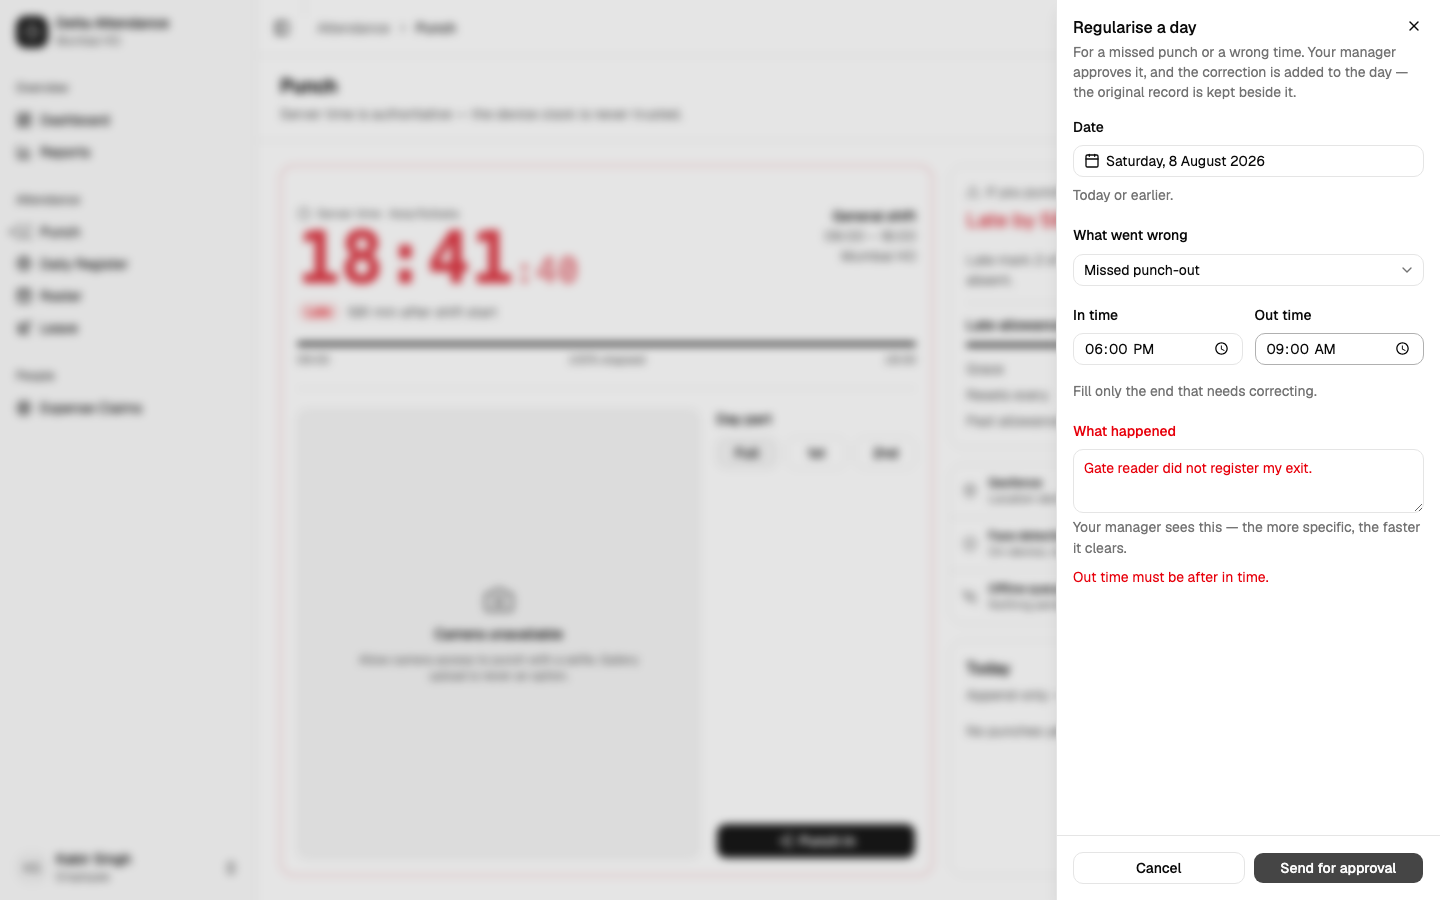
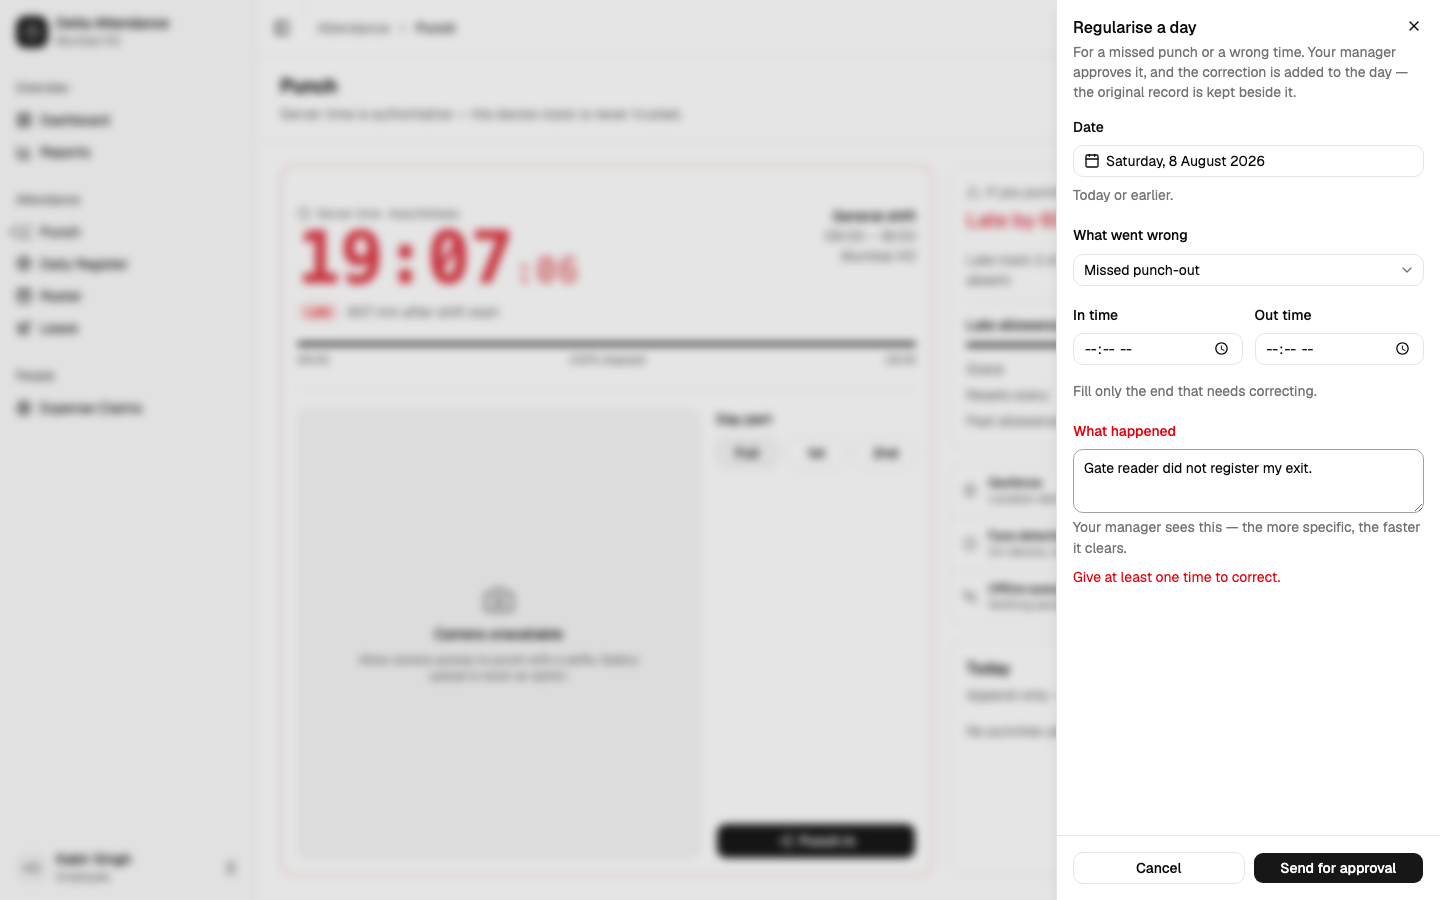
Escalated approvals persist, and night-shift corrections stop landing before the shift began

diff --git a/packages/shared/src/regularisation.test.ts b/packages/shared/src/regularisation.test.ts
@@ -2,6 +2,8 @@ import { describe, expect, it } from "vitest"
 
 import {
   clockToMinutes,
+  offsetForShift,
+  regularisationOrderingError,
   regularisationPunches,
   regularisationRequestSchema,
   regularisationSubject,
@@ -37,13 +39,12 @@ describe("regularisationRequestSchema", () => {
     expect(result.success).toBe(false)
   })
 
-  it("refuses an out time before the in time", () => {
-    const result = regularisationRequestSchema.safeParse({
-      ...base,
-      inTime: "18:00",
-      outTime: "09:00",
-    })
-    expect(result.success).toBe(false)
+  it("leaves ordering to the route — the schema cannot know the shift", () => {
+    // 06:00 legitimately follows 22:00 on a night shift, so a string compare
+    // here would refuse every night-shift correction outright.
+    expect(
+      regularisationRequestSchema.safeParse({ ...base, inTime: "22:00", outTime: "06:00" }).success
+    ).toBe(true)
   })
 
   it("requires a real explanation and a 24-hour clock", () => {
@@ -88,5 +89,53 @@ describe("regularisationSubject", () => {
     expect(regularisationSubject({ ...base, reason: "WRONG_TIME", inTime: "09:05" })).toBe(
       "Recorded time is wrong — in 09:05, out 18:30"
     )
+  })
+})
+
+
+describe("night shifts wrap past midnight", () => {
+  const NIGHT_START = 22 * 60 // 22:00
+  const DAY_START = 9 * 60
+
+  it("an out time before the shift start belongs to the next day", () => {
+    // 06:00 on a 22:00 shift is eight hours in, not sixteen hours before it.
+    expect(offsetForShift("06:00", NIGHT_START, true)).toBe(480)
+    expect(offsetForShift("22:00", NIGHT_START, true)).toBe(0)
+    expect(offsetForShift("23:30", NIGHT_START, true)).toBe(90)
+  })
+
+  it("a day shift is unaffected — a time before the start stays negative", () => {
+    expect(offsetForShift("08:40", DAY_START, false)).toBe(-20)
+    expect(offsetForShift("09:05", DAY_START, false)).toBe(5)
+  })
+
+  it("night-shift punches come out in the right order", () => {
+    const punches = regularisationPunches(
+      { date: "2026-08-10", reason: "MISSED_OUT", inTime: "22:00", outTime: "06:00", note: "night" },
+      NIGHT_START,
+      true
+    )
+    expect(punches).toEqual([
+      { type: "IN", offsetMin: 0, clock: "22:00" },
+      { type: "OUT", offsetMin: 480, clock: "06:00" },
+    ])
+    // Without the wrap this was -960: the correction produced a day with
+    // negative worked time and the employee stayed unpaid.
+    expect(punches[1].offsetMin).toBeGreaterThan(punches[0].offsetMin)
+  })
+
+  it("ordering is judged against the shift, not the clock string", () => {
+    const night = { date: "2026-08-10", reason: "MISSED_OUT" as const, inTime: "22:00", outTime: "06:00", note: "night" }
+    expect(regularisationOrderingError(night, NIGHT_START, true)).toBeNull()
+    // The same pair on a day shift really is the wrong way round.
+    expect(regularisationOrderingError(night, DAY_START, false)).toMatch(/after in time/)
+    // And an identical in and out is refused on any shift.
+    expect(
+      regularisationOrderingError(
+        { ...night, inTime: "22:00", outTime: "22:00" },
+        NIGHT_START,
+        true
+      )
+    ).toMatch(/after in time/)
   })
 })

diff --git a/packages/shared/src/regularisation.ts b/packages/shared/src/regularisation.ts
@@ -52,13 +52,12 @@ export const regularisationRequestSchema = z
     message: "Give at least one time to correct.",
     path: ["inTime"],
   })
-  .refine(
-    (value) =>
-      value.inTime === undefined ||
-      value.outTime === undefined ||
-      value.outTime > value.inTime,
-    { message: "Out time must be after in time.", path: ["outTime"] }
-  )
+  /**
+   * Note there is deliberately no "out after in" check here. On a night shift
+   * 06:00 legitimately follows 22:00, and a string comparison would refuse
+   * every night-shift correction outright. Ordering is validated by the route,
+   * which knows the employee's shift — see `regularisationOrderingError`.
+   */
 export type RegularisationRequest = z.infer<typeof regularisationRequestSchema>
 
 export const clockToMinutes = (clock: string): number => {
@@ -87,22 +86,58 @@ export interface RegularisationPunch {
  * every device punch uses, so a regularised day computes identically to one
  * that went right the first time.
  */
+/**
+ * Offset of a wall-clock time from shift start.
+ *
+ * On a shift that crosses midnight, a clock time earlier than the start
+ * belongs to the *next* calendar day: 06:00 on a 22:00 shift is +480, not
+ * −960. Subtracting plainly put the out-punch sixteen hours before the
+ * in-punch, so an approved night-shift correction produced a day with negative
+ * worked time — the employee's day stayed unpaid and the correction appeared
+ * to have done nothing.
+ */
+export function offsetForShift(
+  clock: string,
+  shiftStartMin: number,
+  crossesMidnight: boolean
+): number {
+  const raw = clockToMinutes(clock) - shiftStartMin
+  return crossesMidnight && raw < 0 ? raw + 1440 : raw
+}
+
+/**
+ * Is this correction the wrong way round for the employee's shift? Returns a
+ * message, or null when the pair is coherent.
+ */
+export function regularisationOrderingError(
+  request: RegularisationRequest,
+  shiftStartMin: number,
+  crossesMidnight: boolean
+): string | null {
+  if (request.inTime === undefined || request.outTime === undefined) return null
+  const inOffset = offsetForShift(request.inTime, shiftStartMin, crossesMidnight)
+  const outOffset = offsetForShift(request.outTime, shiftStartMin, crossesMidnight)
+  if (outOffset <= inOffset) return "Out time must be after in time for this shift."
+  return null
+}
+
 export function regularisationPunches(
   request: RegularisationRequest,
-  shiftStartMin: number
+  shiftStartMin: number,
+  crossesMidnight = false
 ): RegularisationPunch[] {
   const punches: RegularisationPunch[] = []
   if (request.inTime) {
     punches.push({
       type: "IN",
-      offsetMin: clockToMinutes(request.inTime) - shiftStartMin,
+      offsetMin: offsetForShift(request.inTime, shiftStartMin, crossesMidnight),
       clock: request.inTime,
     })
   }
   if (request.outTime) {
     punches.push({
       type: "OUT",
-      offsetMin: clockToMinutes(request.outTime) - shiftStartMin,
+      offsetMin: offsetForShift(request.outTime, shiftStartMin, crossesMidnight),
       clock: request.outTime,
     })
   }

diff --git a/apps/api/src/repositories.ts b/apps/api/src/repositories.ts
@@ -190,30 +190,46 @@ export function persistPunch(punch: StoredPunch): void {
   )
 }
 
+/**
+ * Write an approval, whether it is new or has moved on.
+ *
+ * This was a bare `create` with an explicit id, and the escalation sweep calls
+ * it for approvals that already exist. The insert violated the primary key,
+ * `fire` swallowed the error, and the escalation silently never persisted: on
+ * restart the request hydrated as PENDING again while its ledger debit had
+ * already been written, so approving it a second time debited the employee
+ * twice for one absence.
+ *
+ * An upsert is correct for both callers and cannot half-apply.
+ */
 export function persistApproval(approval: StoredApproval): void {
   const db = prisma()
   if (!db) return
+  const meta = {
+    createdAt: approval.createdAt,
+    leaveType: approval.leaveType ?? null,
+    leavePart: approval.leavePart ?? null,
+  }
+  const shared = {
+    kind: approval.kind,
+    subject: approval.subject,
+    detail: approval.detail,
+    units: approval.units,
+    status: approval.status,
+    level: approval.level,
+    metaJson: meta,
+  }
   fire("persist approval", () =>
-    db.approvalRequest.create({
-      data: {
+    db.approvalRequest.upsert({
+      where: { id: approval.id },
+      update: shared,
+      create: {
         id: approval.id,
         companyId: COMPANY_ID,
-        kind: approval.kind,
         employeeId: approval.employeeId,
-        subject: approval.subject,
-        detail: approval.detail,
         dateFrom: new Date(`${approval.dateFrom}T00:00:00Z`),
         dateTo: new Date(`${approval.dateTo}T00:00:00Z`),
-        units: approval.units,
-        status: approval.status,
-        level: approval.level,
-        // The model has no createdAt/leaveType columns; they ride in metaJson
-        // so hydration can round-trip the store shape exactly.
-        metaJson: {
-          createdAt: approval.createdAt,
-          leaveType: approval.leaveType ?? null,
-          leavePart: approval.leavePart ?? null,
-        },
+        ...shared,
       },
     })
   )

diff --git a/apps/api/test/api.test.ts b/apps/api/test/api.test.ts
@@ -2370,3 +2370,37 @@ describe("a ledger whose rows are out of date order still works", () => {
     expect(applied.json().error).toBe("MONTH_LOCKED")
   })
 })
+
+describe("an escalated approval survives a restart", () => {
+  it("re-persisting an existing approval updates it rather than failing silently", async () => {
+    // The in-memory half of the bug: escalation mutates the approval and calls
+    // persistApproval, which used to be a bare create. The insert violated the
+    // primary key, the error was swallowed, and the request hydrated as PENDING
+    // again on restart — while its ledger debit had already been written, so a
+    // second approval debited the employee twice for one absence.
+    store.settings.autoApproveOnEscalation = true
+    const employee = await asEmployee()
+    const applied = await app.inject({
+      method: "POST",
+      url: "/leave/apply",
+      headers: { cookie: employee.cookies },
+      payload: { type: "CL", from: "2026-09-07", to: "2026-09-07", part: "FULL", reason: "x" },
+    })
+    const approvalId = applied.json().approval.id
+
+    const later = new Date(Date.now() + 3 * 86_400_000).toISOString()
+    escalateStaleApprovals(store, later, makeNotifier(store))
+
+    const approval = store.approvals.find((row) => row.id === approvalId)!
+    expect(approval.status).toBe("APPROVED")
+    expect(approval.level).toBe(2)
+    expect(approval.decidedBy).toBe("system")
+
+    // Exactly one debit exists for it, and re-running the sweep adds none.
+    const debits = () =>
+      store.ledger.filter((row) => row.remarks.includes(approvalId) && row.units < 0)
+    expect(debits()).toHaveLength(1)
+    escalateStaleApprovals(store, later, makeNotifier(store))
+    expect(debits()).toHaveLength(1)
+  })
+})

diff --git a/apps/api/src/server.ts b/apps/api/src/server.ts
@@ -15,6 +15,7 @@ import {
   compOffCredit,
   computeAttendanceDay,
   countLeaveUnits,
+  crossesMidnight,
   DEFAULT_MATRIX,
   evaluateLate,
   isoDateSchema,
@@ -24,7 +25,7 @@ import {
   PERMISSIONS,
   punchWindowFlag,
   reduceLedger,
-  regularisationPunches,
+  regularisationOrderingError,
   regularisationRequestSchema,
   regularisationSubject,
   resolveBusinessDate,
@@ -1553,6 +1554,21 @@ export function buildServer(store: Store = seedStore(), options: { exportsDir?: 
           approval.status === "PENDING"
       )
       if (duplicate) return reply.code(409).send({ error: "ALREADY_PENDING" })
+
+      // Ordering depends on the shift: 06:00 legitimately follows 22:00 on a
+      // night shift, so the schema cannot decide this.
+      const claimant = employeeById(request.auth.employeeId)
+      const claimantShift = claimant
+        ? store.shifts.find((candidate) => candidate.id === claimant.shiftId)
+        : undefined
+      if (claimantShift) {
+        const ordering = regularisationOrderingError(
+          body,
+          claimantShift.startMin,
+          crossesMidnight(claimantShift)
+        )
+        if (ordering) return reply.code(400).send({ error: "BAD_REQUEST", detail: ordering })
+      }
 
       const approval = {
         id: id(store, "req"),

diff --git a/apps/web/src/components/regularise-sheet.tsx b/apps/web/src/components/regularise-sheet.tsx
@@ -80,10 +80,9 @@ export function RegulariseSheet({
       setError("Give at least one time to correct.")
       return
     }
-    if (inTime && outTime && outTime <= inTime) {
-      setError("Out time must be after in time.")
-      return
-    }
+    // No client-side ordering check: on a night shift 06:00 legitimately
+    // follows 22:00, and only the server knows the employee's shift. It
+    // answers with the reason if the pair is genuinely the wrong way round.
     if (note.trim().length < 5) {
       setError("Say what happened, in a few words.")
       return
@@ -129,7 +128,9 @@ export function RegulariseSheet({
                 ? "That month is locked for payroll — ask HR for an adjustment run."
                 : code === "FUTURE_DATE"
                   ? "That date has not happened yet."
-                  : "Check the date and times and try again.",
+                  : (apiError instanceof ApiError &&
+                      (apiError.body as { detail?: string })?.detail) ||
+                    "Check the date and times and try again.",
         })
       },
     })

diff --git a/apps/api/src/approve.ts b/apps/api/src/approve.ts
@@ -1,4 +1,4 @@
-import { regularisationPunches, reduceLedger } from "@attendance/shared"
+import { crossesMidnight, regularisationPunches, reduceLedger } from "@attendance/shared"
 
 import { persistLedgerEntry, persistPunch } from "./repositories"
 import { id, type Store, type StoredApproval } from "./store"
@@ -88,7 +88,8 @@ export function applyApproval(store: Store, approval: StoredApproval): void {
         outTime: approval.regularisation.outTime,
         note: approval.detail,
       },
-      shift.startMin
+      shift.startMin,
+      crossesMidnight(shift)
     )) {
       const stored = {
         id: id(store, "p"),

diff --git a/DECISIONS.md b/DECISIONS.md
@@ -422,6 +422,20 @@ Guarding eight privileged routes earlier left the commercial suite untouched. Pr
 
 Verified per role after the change: an employee reaches none of the 15, Operations and Admin reach all 15.
 
+## 26. Night shifts and lost escalations (8 Aug 2026)
+
+Two more confirmed P0s from the audit of this session's code.
+
+**An escalated approval never persisted.** `persistApproval` was a bare `create` with an explicit id, and the escalation sweep calls it for approvals that already exist. The insert violated the primary key, `fire` swallowed the error, and the change was lost: on restart the request hydrated as PENDING again *while its ledger debit had already been written*, so approving it a second time debited the employee twice for one absence. It is now an upsert — correct for both callers, and proven against the real database by persisting the same id twice.
+
+**A night-shift correction left the day unpaid.** `regularisationPunches` subtracted the shift start plainly, so 06:00 on a 22:00 shift computed as **−960** — sixteen hours *before* the in-punch. The approved correction produced a day with negative worked time and changed nothing. Reproduced before the fix.
+
+| # | Decision | Why |
+|---|---|---|
+| N10 | An offset wraps by +1440 when the shift crosses midnight and the clock time is before its start | 06:00 on a 22:00 shift is eight hours in. Day shifts are untouched: a time before the start stays negative, which is what an early arrival means. |
+| N11 | "Out after in" moved **out of the schema and into the route** | The schema has no idea whether the employee works nights, and a string comparison refused every night-shift correction outright — those employees could not file one at all. |
+| N12 | The client no longer duplicates the ordering check | Only the server knows the shift. The sheet surfaces the server's reason instead of guessing, so the two cannot disagree. |
+
 ## 4. Open items
 
 - **Statutory payroll** (PF/ESI/PT/TDS) still deferred per the 4 Aug decision. The payslip prints gross = net and says so explicitly rather than inventing deduction lines.
